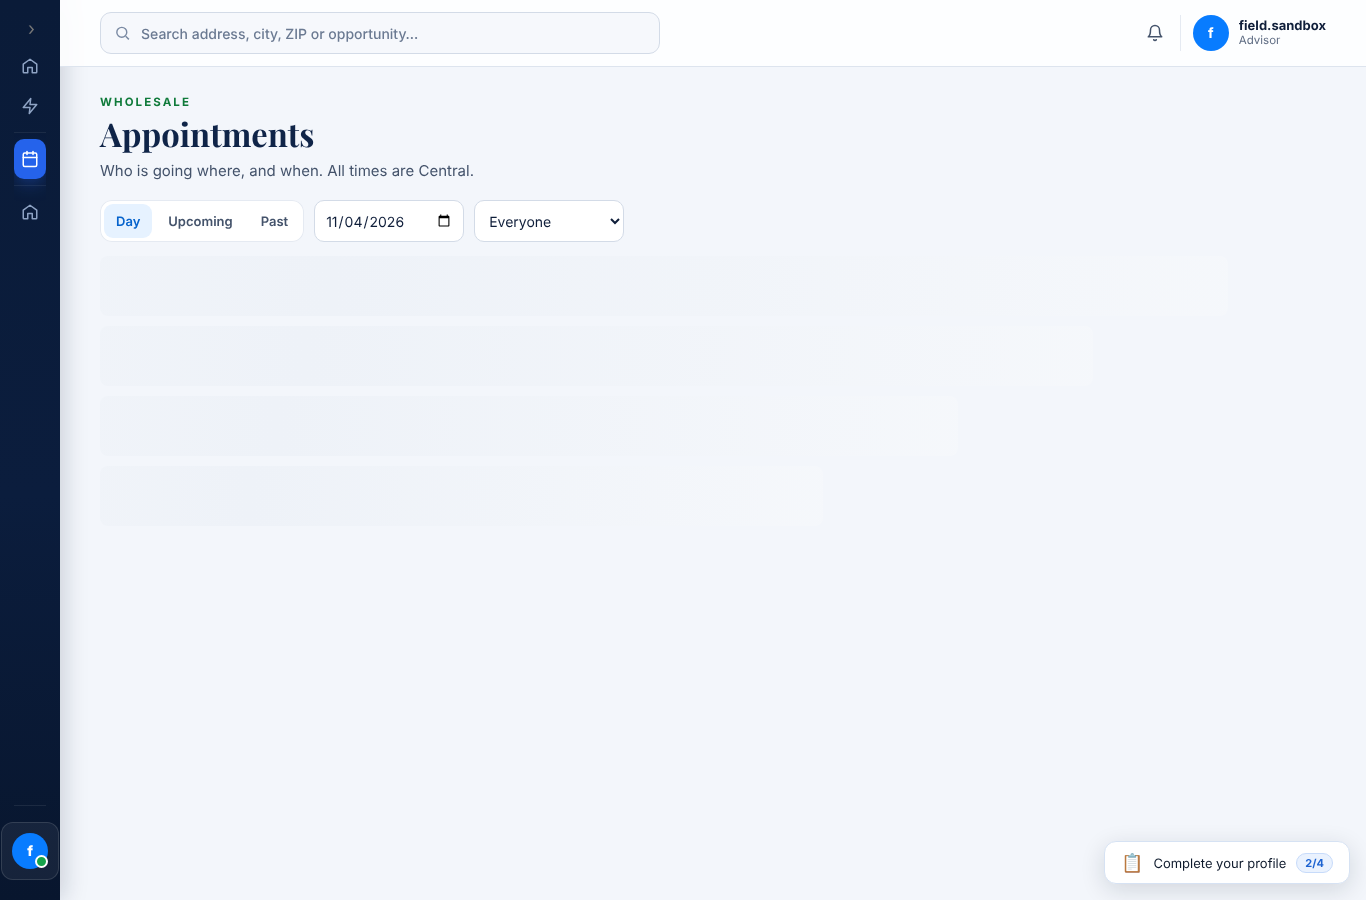
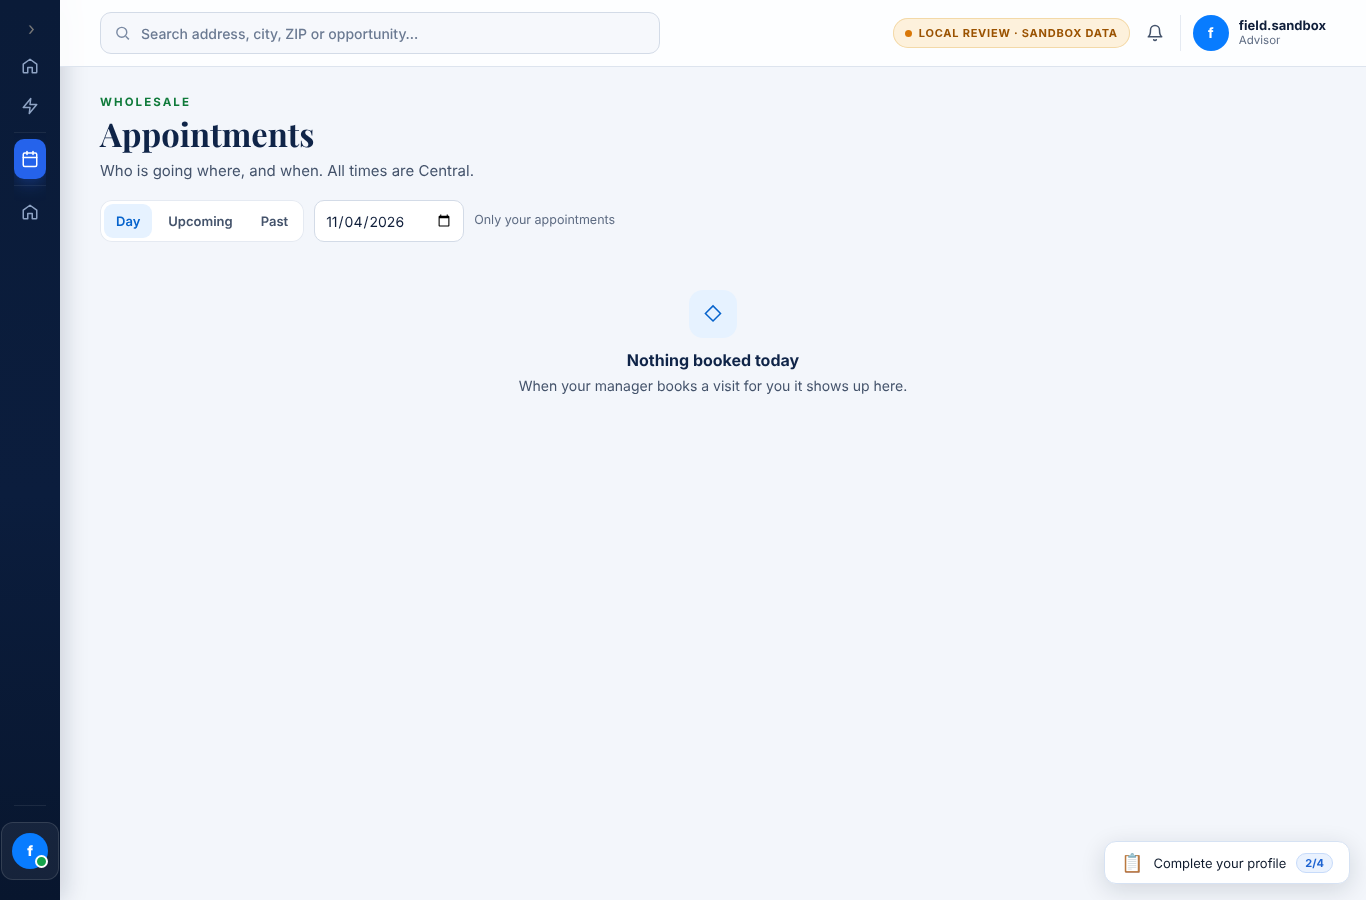
QA screenshots for #439 release pass (synthetic data)
Claude-Session: https://claude.ai/code/session_0185J8FCwi1KthxKMecsCyci

Changed region(s): [[0.369, 0.3733, 0.6457, 0.4356], [0.6457, 0.0, 0.8302, 0.0622], [0.3382, 0.2178, 0.4612, 0.28]]

diff --git a/README.md b/README.md
@@ -1,3 +1,4 @@
-QA screenshots for PR #514 / issue #439 (Wholesale Team custom access).
-Synthetic test data only, captured by tests/test_wholesale_access_browser.py in Chromium.
+QA screenshots for PR #514 / issue #439 (Wholesale Team custom access), release pass.
+Synthetic test data only, captured by tests/test_wholesale_access_browser.py and
+tests/test_wholesale_access_browser_roles.py in Chromium (desktop 1366, tablet 820, phone 390).
 This branch holds evidence only and is never merged.
